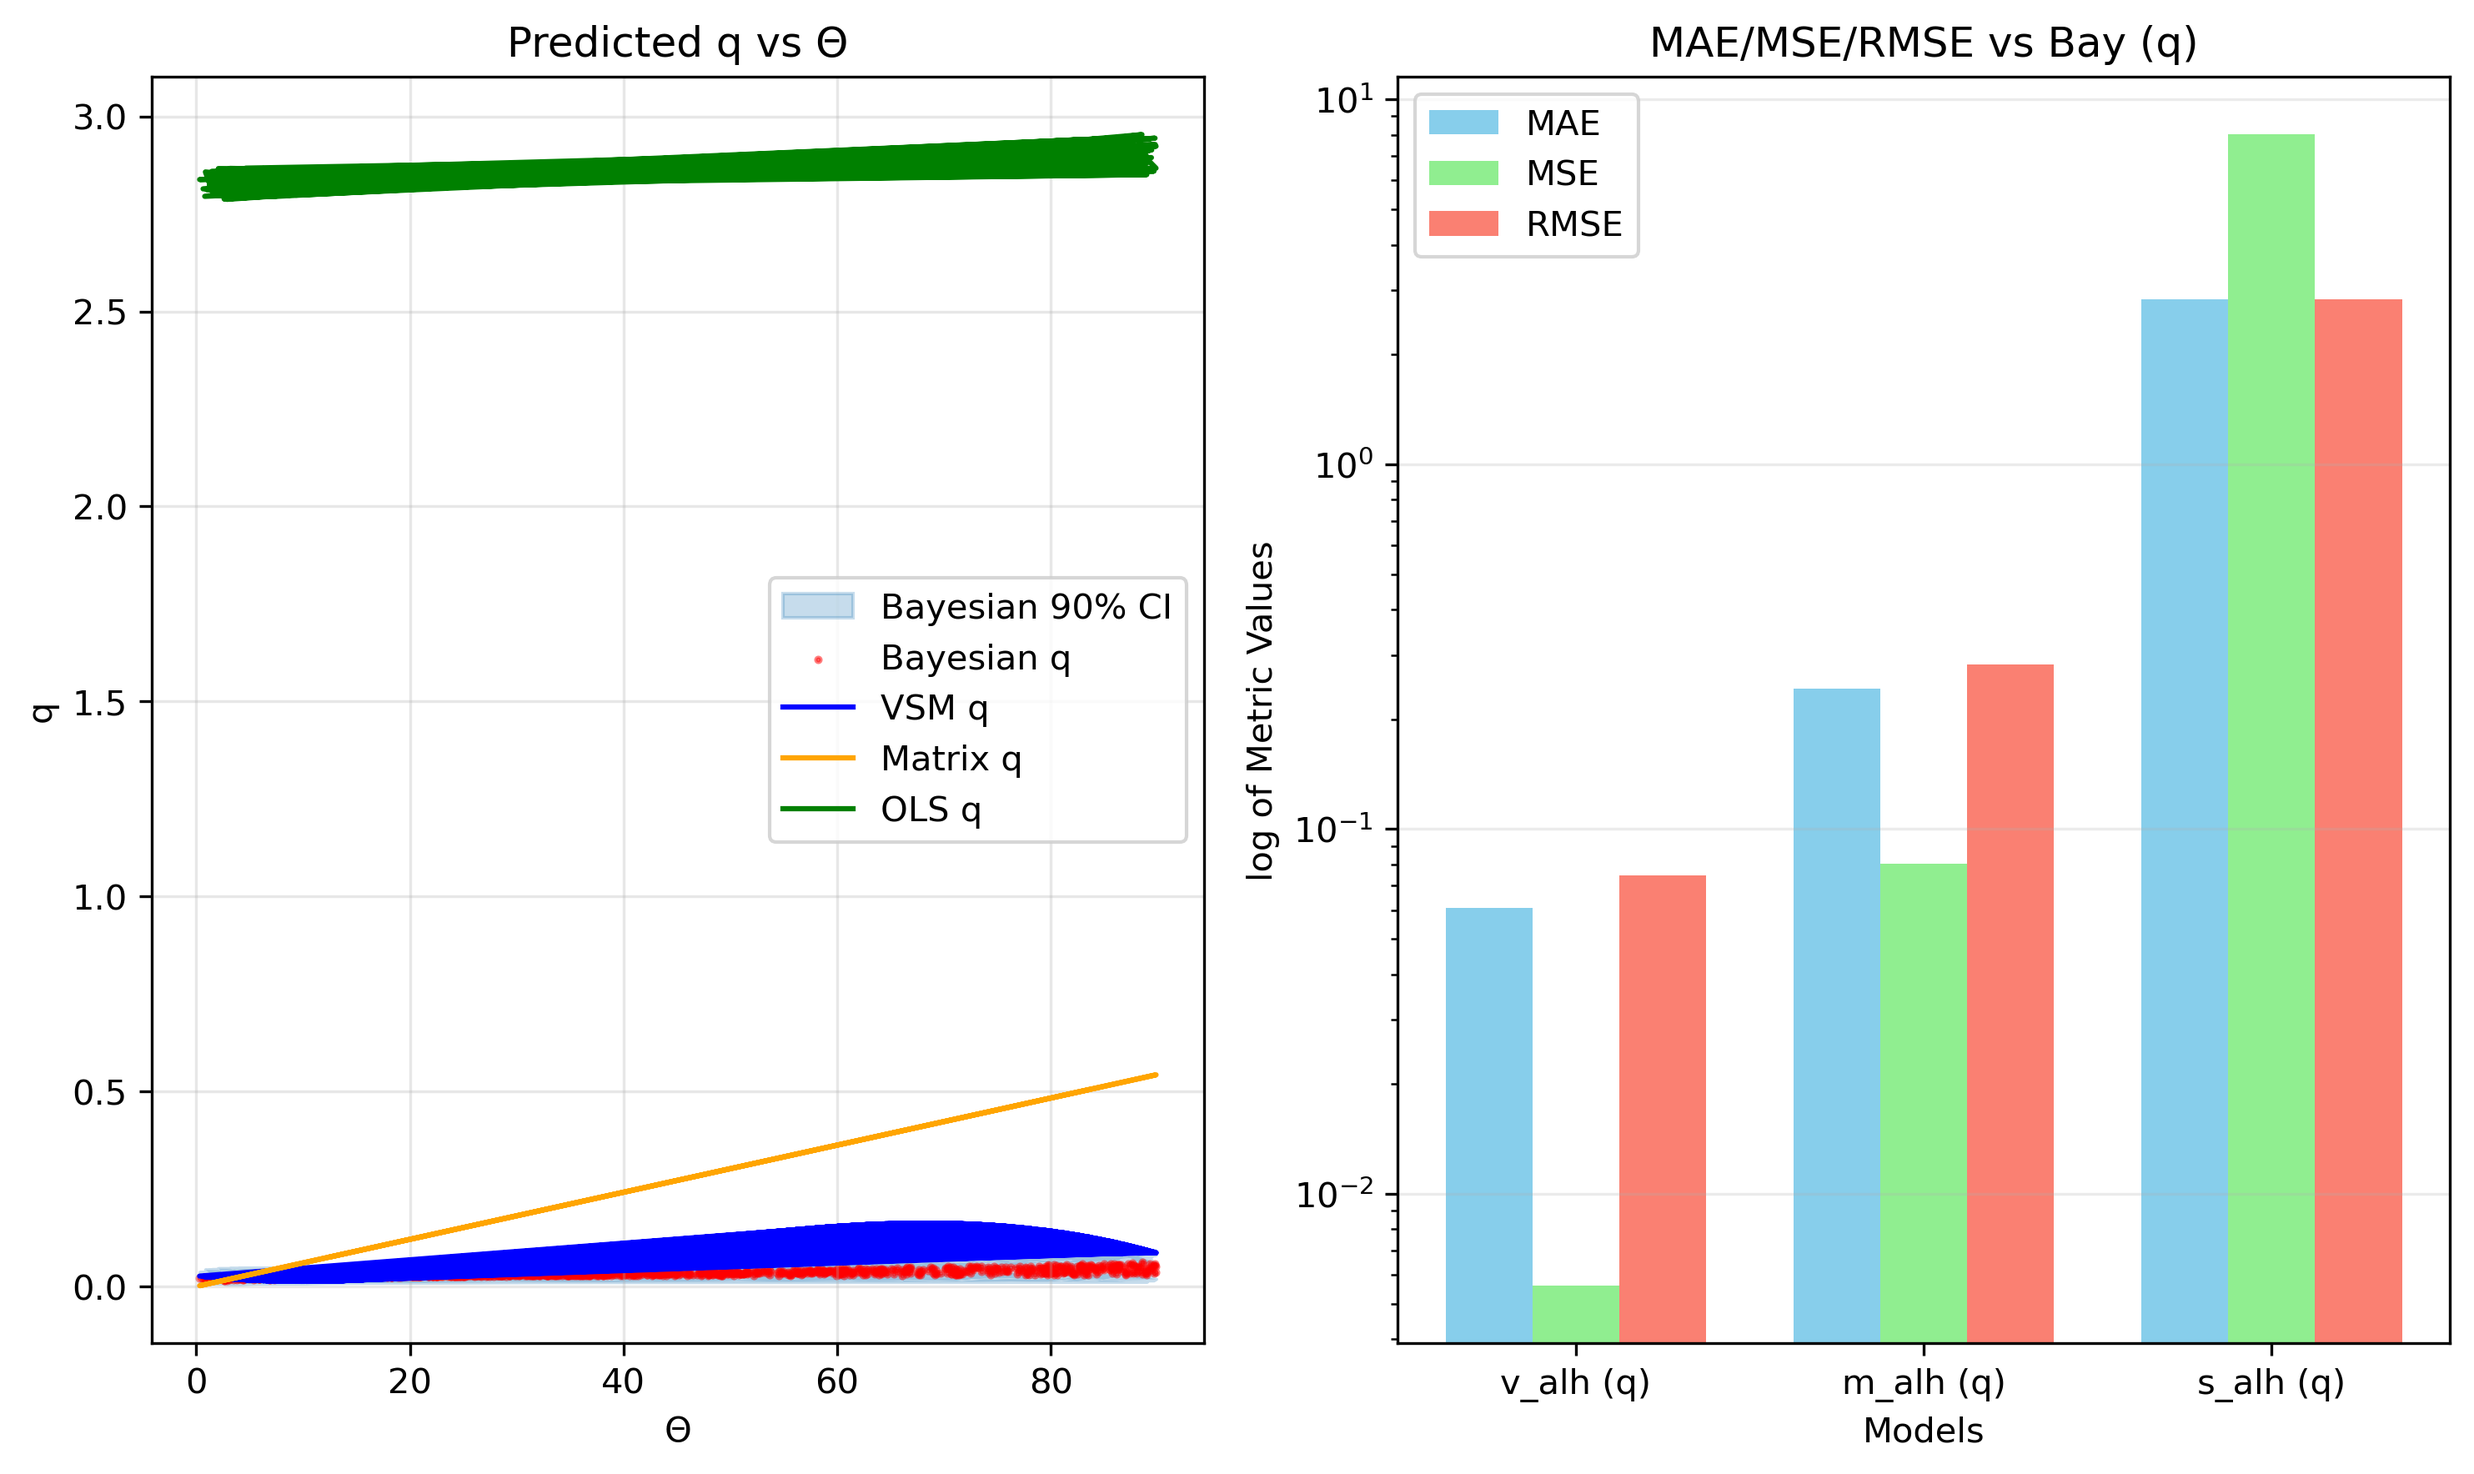
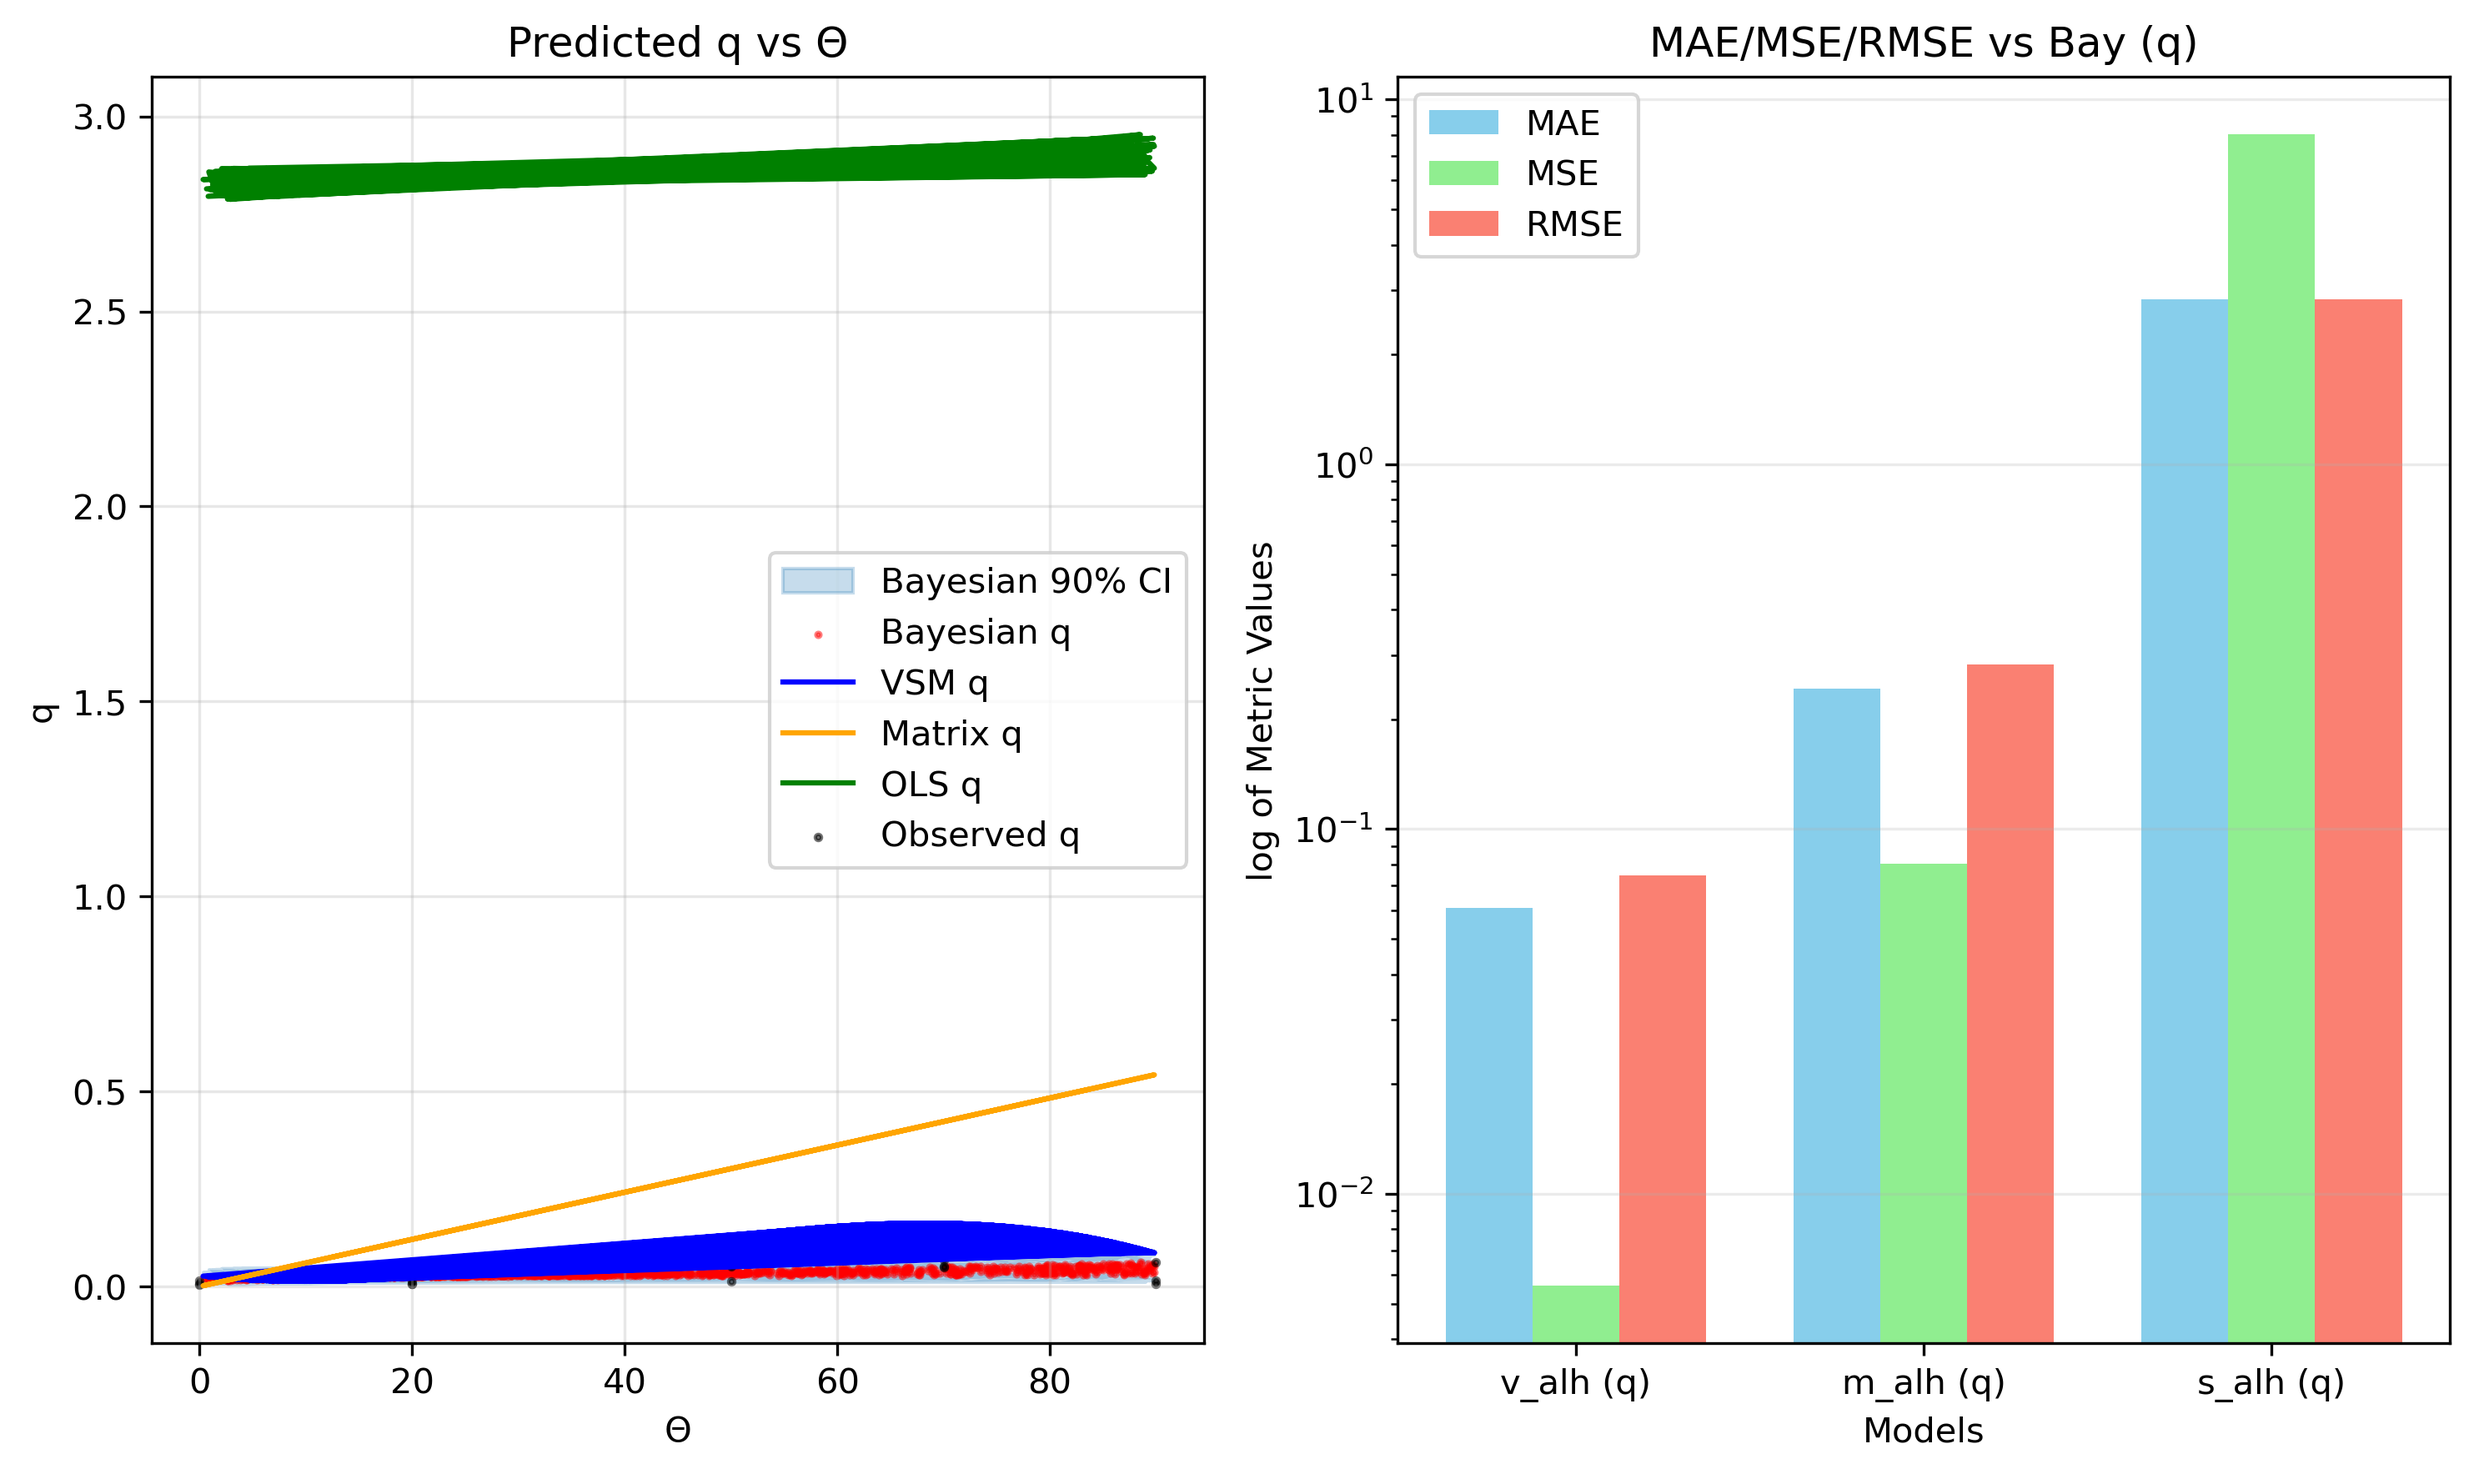
Update the error metrics code and png

Changed region(s): [[0.3101, 0.3733, 0.4961, 0.5911], [0.4341, 0.8399, 0.4651, 0.871]]

diff --git a/Comparing bay q against v_alh q, m_alh q and s_ alh q using error metrics.py b/Comparing bay q against v_alh q, m_alh q and s_ alh q using error metrics.py
@@ -10,6 +10,20 @@ import numpy as np
 from sklearn.metrics import mean_absolute_error, mean_squared_error
 import matplotlib.pyplot as plt
 
+#raw observed lab data
+theta = np.array([0,20,50,70,90])
+q_AB = np.array([0.0047,0.0071,0.0518,0.0506,0.0071])
+q_AC = np.array([0.0071,0.0071,0.0542,0.0495,0.0141])
+q_AD = np.array([0.0141,0.0153,0.0130,0.0683,0.0612])
+
+#Concentate
+theta_all=np.tile(theta,3)
+q_all=np.concat([q_AB,q_AC,q_AD])
+
+#Print to check
+#print(theta_all)
+#print(q_all)
+
 # Load the CSV file into a DataFrame
 df = pd.read_csv('Mean Comparison.csv')
 print(df.head(1))
@@ -60,6 +74,7 @@ ax1.scatter(df['Theta'],df['Bay (q)'],s=2,alpha=0.5,label='Bayesian q',color='re
 ax1.plot(df['Theta'],df['v_alh (q)'],label='VSM q',color='blue')
 ax1.plot(df['Theta'],df['m_alh (q)'],label='Matrix q',color='orange')
 ax1.plot(df['Theta'],df['s_alh (q)'],label='OLS q',color='green')
+ax1.scatter(theta_all,q_all,label='Observed q',s=3,alpha=0.55,color='black')
 
 ax1.set_title('Predicted q vs Θ')
 ax1.set_xlabel('Θ')
